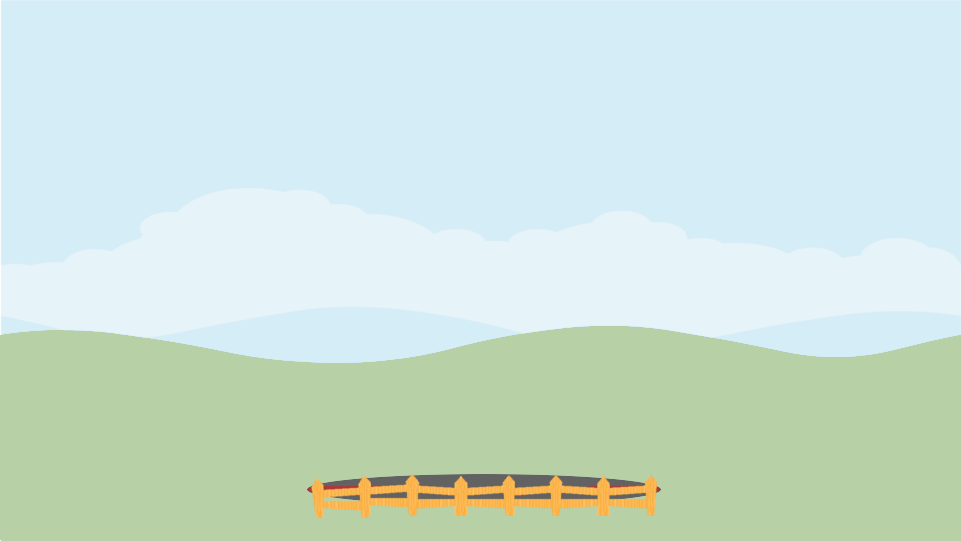
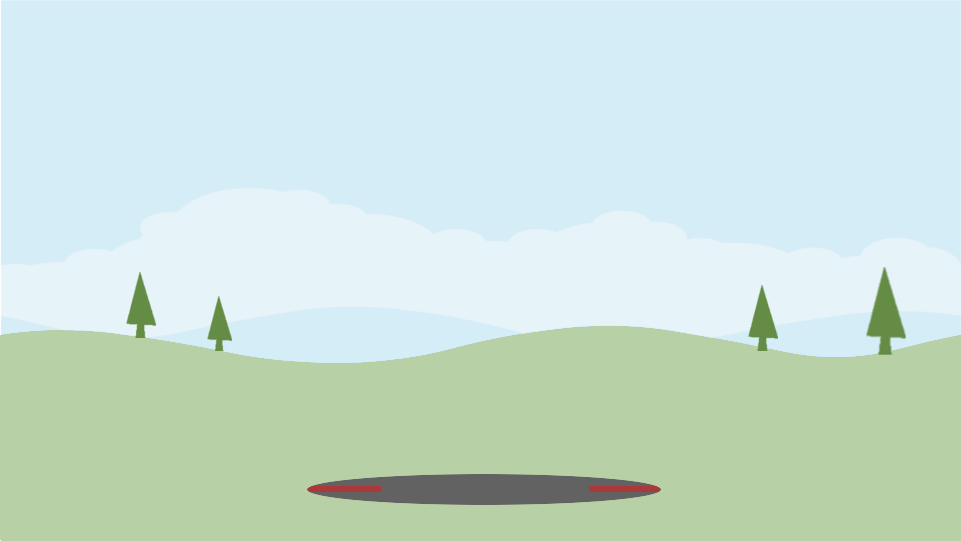
force fence to be in front

diff --git a/script.js b/script.js
@@ -28,10 +28,13 @@ function CreateHabitEl() {
 	node.appendChild(textNode);
 }
 
-//create background image element
+//create background image elements
 
 let backgroundImg = document.createElement("img");
 backgroundImg.src = "otherImages/background.png";
+
+let fenceImg = document.createElement("img");
+fenceImg.src = "otherImages/fence.png";
 
 //create rocket image elements
 
@@ -55,8 +58,6 @@ noseConeImg.src = "rocketParts/noseCone.png"
 
 let sideBoosterImg = document.createElement("img");
 sideBoosterImg.src = "rocketParts/sideBooster.png"
-
-//make sure all the images are loaded before trying to draw then in the canvas
 
 
 //Define the location of the images for drawing.
@@ -91,7 +92,7 @@ sideBoosterImg.src = "rocketParts/sideBooster.png"
 		height: 64,
 		xPos: 450,
 		yPos: 258
-	}
+	};
 
 	let frameTop = {
 		image: frameTopImg,
@@ -107,7 +108,7 @@ sideBoosterImg.src = "rocketParts/sideBooster.png"
 		height: 28,
 		xPos: 470,
 		yPos: 210
-	}
+	};
 
 	let noseCone = {
 		image: noseConeImg,
@@ -115,7 +116,7 @@ sideBoosterImg.src = "rocketParts/sideBooster.png"
 		height: 78,
 		xPos: 450,
 		yPos: 116
-	}
+	};
 
 	let leftSideBooster = {
 		image: sideBoosterImg,
@@ -123,7 +124,7 @@ sideBoosterImg.src = "rocketParts/sideBooster.png"
 		height: 170,
 		xPos: 422,
 		yPos: 315
-	}
+	};
 
 	let middleSideBooster = {
 		image: sideBoosterImg,
@@ -155,12 +156,27 @@ function drawNextImage() {
 				  0, 0, imagesDimAndPos[nextImage].width, imagesDimAndPos[nextImage].height,
 				  //destination rectange
 				  imagesDimAndPos[nextImage].xPos,imagesDimAndPos[nextImage].yPos, 
-				  imagesDimAndPos[nextImage].width, imagesDimAndPos[nextImage].height
-		);
+				  imagesDimAndPos[nextImage].width, imagesDimAndPos[nextImage].height);
+		//draw the fence each time to keep it in front
+		context.drawImage(fenceImg,
+		  				  0, 0, 446, 113,
+		  				  259, 423, 446, 113)
 	}
 }
 
 
+
+function drawBackground() {
+	imagesLoaded = true
+	context.drawImage(backgroundImg, 
+					  0, 0, 960, 540,
+					  0, 0, 960, 540)
+	context.drawImage(fenceImg,
+					  0, 0, 446, 113,
+					  259, 423, 446, 113)
+}
+
+let imagesLoaded = false
 //This is dangerous, because if all the images are not yet loaded the button will not do anything.
 //Consider a loading screen or a way to disable input.
 completedButton.addEventListener('click', e => {
@@ -170,17 +186,16 @@ completedButton.addEventListener('click', e => {
 	}
 })
 
-
 //adapted from https://stackoverflow.com/questions/31299509/call-a-function-when-html5-canvas-is-ready
 //because the images load asychronously, wait for all the images to load first
 //keeping this information up to date in two separate places is bad design.
 //See if you can find some other way to do this
 
 
-let imagesLoaded = false
-
 var images = [
-			'rocketParts/Nozzle.png',
+			'otherImages/background.png',
+			'otherImages/fence.png',
+			'rocketParts/nozzle.png',
 			'rocketParts/frameBottom.png',
             'rocketParts/frameMiddle.png',
             'rocketParts/frameTop.png',
@@ -198,7 +213,7 @@ var loadImage = function(i) {
    --imagesLoading;
    // Call the complete callback when all images loaded.
    if (imagesLoading === 0) {
-     imagesLoaded = true;
+     drawBackground();
    }
  };
  img.src = images[i];
@@ -209,8 +224,3 @@ var i;
 for(i = 0; i < imagesLoading; ++i) {
 	loadImage(i);
 }
-
-
-myImages = [
-
-]
